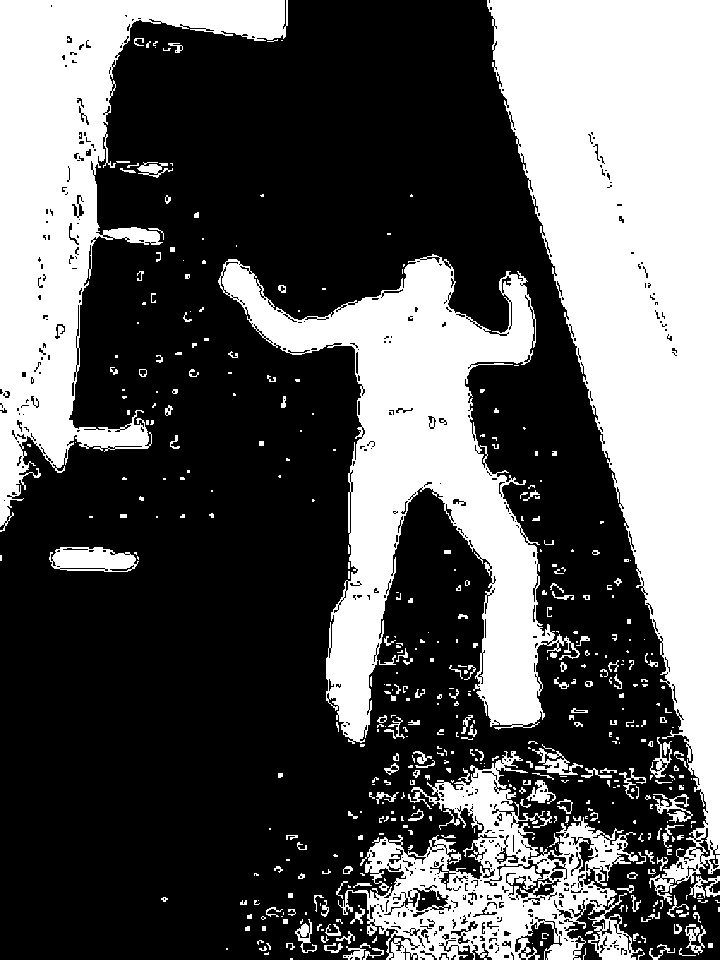
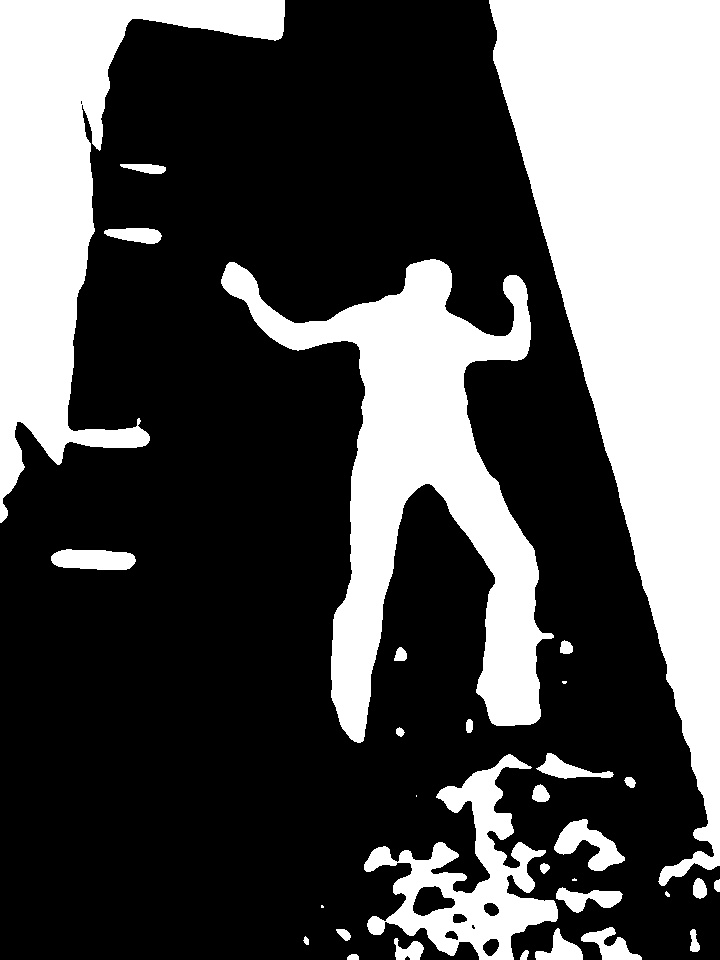
Final

diff --git a/process.py b/process.py
@@ -1,5 +1,6 @@
 from gettext import find
 import cv2
+import test
 import math
 from victim_detect import find_mean
 from typing import List
@@ -12,8 +13,10 @@ def process_image(filename:str):
     img = cv2.imread(filename)
     
     img = pre_process_image(pre_process_image(img))
+    cv2.imwrite("pre.jpg", img)
+    img = cv2.imread(test.contrastize("pre.jpg"))
     img = cv2.cvtColor(img, cv2.COLOR_BGR2GRAY)
-    cv2.imwrite("greyscaled.jpg", img)
+    img = cv2.equalizeHist(cv2.equalizeHist(img))
     return_filename = "processing/processed.jpg"
     
     img = resize(720, resize(300, img))
@@ -27,23 +30,23 @@ def process_image_gauss(imggray):
     print("Gauss-processing")
     return_filename = "processing/gauss_processed.jpg"
     
-    blur = cv2.GaussianBlur(imggray, (0,0), sigmaX=5, sigmaY=5)
+    blur1 = cv2.GaussianBlur(imggray, (0,0), sigmaX=5, sigmaY=5)
     
-    x, y = blur.shape
+    x, y = blur1.shape
     
-    cv2.imwrite("processing/blur.jpg", blur)
+    cv2.imwrite("processing/blur.jpg", blur1)
     
     divide = imggray
     
     for i in range(x):
         for j in range(y):
-            divide[i][j] = (divide[i][j] + blur[i][j])/2
+            divide[i][j] = (divide[i][j] + blur1[i][j])/2
     
     cv2.imwrite("processing/divide.jpg", divide)
 
-    t = find_mean(imggray)
+    t = find_med(imggray ,x, y)
     print("t =", t)
-    t = 255/(1 + math.exp(0.06*(128 - t)))
+    t = 255/(1 + math.exp(-0.06*(128 - t)))
     print("t =", t)
     thresh = cv2.threshold(divide, t, 255, cv2.THRESH_BINARY+cv2.THRESH_OTSU)[1]
     cv2.imwrite("processing/thresh_1.jpg", thresh)
@@ -54,7 +57,7 @@ def process_image_gauss(imggray):
         for j in range(y):
             thresh[i][j] = (thresh[i][j]*2 + blur[i][j])/3
     
-    thresh = cv2.threshold(thresh, t, 255, cv2.THRESH_BINARY+cv2.THRESH_OTSU)[1]
+    thresh = cv2.threshold(blur1, t, 255, cv2.THRESH_BINARY+cv2.THRESH_OTSU)[1]
     
     cv2.imwrite("processing/thresh.jpg", thresh)
 
@@ -129,24 +132,11 @@ def resize(target_width:int, img):
     
     return img
 
-def find_most_freq(img, x, y):
-    colors = {}
+def find_med(img, x, y):
+    colors = []
     
     for i in range(x):
         for j in range(y):
-            key = img[i][j]
+            colors.append(img[i][j])
             
-            if key in colors:
-                colors[key] += 1
-            else:
-                colors[key] = 1
-
-    most_freq = 0
-    freq_color = -1
-    for key in colors:
-        freq = colors[key]
-        if freq > most_freq:
-            most_freq = freq
-            freq_color = key
-    
-    return freq_color
+    return colors[int(len(colors)/2)]

diff --git a/test.py b/test.py
@@ -1,30 +1,35 @@
+#import the libraries
+from re import S
+import cv2 as cv
+import numpy as np
 
-# Importing required libraries
-from skimage.segmentation import slic
-from skimage.data import astronaut
-from skimage.color import label2rgb
- 
-# Setting the plot size as 15, 15
-plt.figure(figsize=(15,15))
- 
-# Sample Image of scikit-image package
-astronaut = astronaut()
- 
-# Applying Simple Linear Iterative
-# Clustering on the image
-# - 50 segments & compactness = 10
-astronaut_segments = slic(astronaut,
-                          n_segments=50,
-                          compactness=10)
-plt.subplot(1,2,1)
- 
-# Plotting the original image
-plt.imshow(astronaut)
-plt.subplot(1,2,2)
- 
-# Converts a label image into
-# an RGB color image for visualizing
-# the labeled regions.
-plt.imshow(label2rgb(astronaut_segments,
-                     astronaut,
-                     kind = 'avg'))
+def contrastize(filename: str):
+    write_name = "contrasty.jpg"
+    #read the image
+    img = cv.imread(filename)
+    #convert the BGR image to HSV colour space
+    hsv = cv.cvtColor(img, cv.COLOR_BGR2HSV)
+    #obtain the grayscale image of the original image
+    gray = cv.cvtColor(img, cv.COLOR_BGR2GRAY)
+
+    #set the bounds for the red hue
+    lower_red = np.array([160,100,50])
+    upper_red = np.array([180,255,255])
+
+    #create a mask using the bounds set
+    mask = cv.inRange(hsv, lower_red, upper_red)
+    #create an inverse of the mask
+    mask_inv = cv.bitwise_not(mask)
+    #Filter only the red colour from the original image using the mask(foreground)
+    res = cv.bitwise_and(img, img, mask=mask)
+    #Filter the regions containing colours other than red from the grayscale image(background)
+    background = cv.bitwise_and(gray, gray, mask = mask_inv)
+    #convert the one channelled grayscale background to a three channelled image
+    background = np.stack((background,)*3, axis=-1)
+    #add the foreground and the background
+    added_img = cv.add(res, background)
+
+
+    cv.imwrite(write_name, added_img)
+    
+    return write_name

diff --git a/main.py b/main.py
@@ -13,9 +13,9 @@ count = 0
 
 def get_outline(filename: str)-> str:
     kmeans_name = "processing/kmeans.jpg"
-    cv2.imwrite(kmeans_name, k_means_processing(filename))
+    # cv2.imwrite(kmeans_name, k_means_processing(filename))
     cv2.imwrite("p.jpg", process.process_image(filename))
-    img = process.process_image("p.jpg")
+    img = process.process_image(filename)
     return find_victim(filename, img)
 
 def k_means_processing(filepath: str) -> any:

diff --git a/victim_detect.py b/victim_detect.py
@@ -23,7 +23,7 @@ def find_victim(filename:str, processed_img) -> str:
     
     contours = sorted(contours, key=len, reverse=True)
     
-    contours = contours[0:30]
+    contours = contours[0:10]
     
     closest_contour = []
     closest_distance = 5000000
